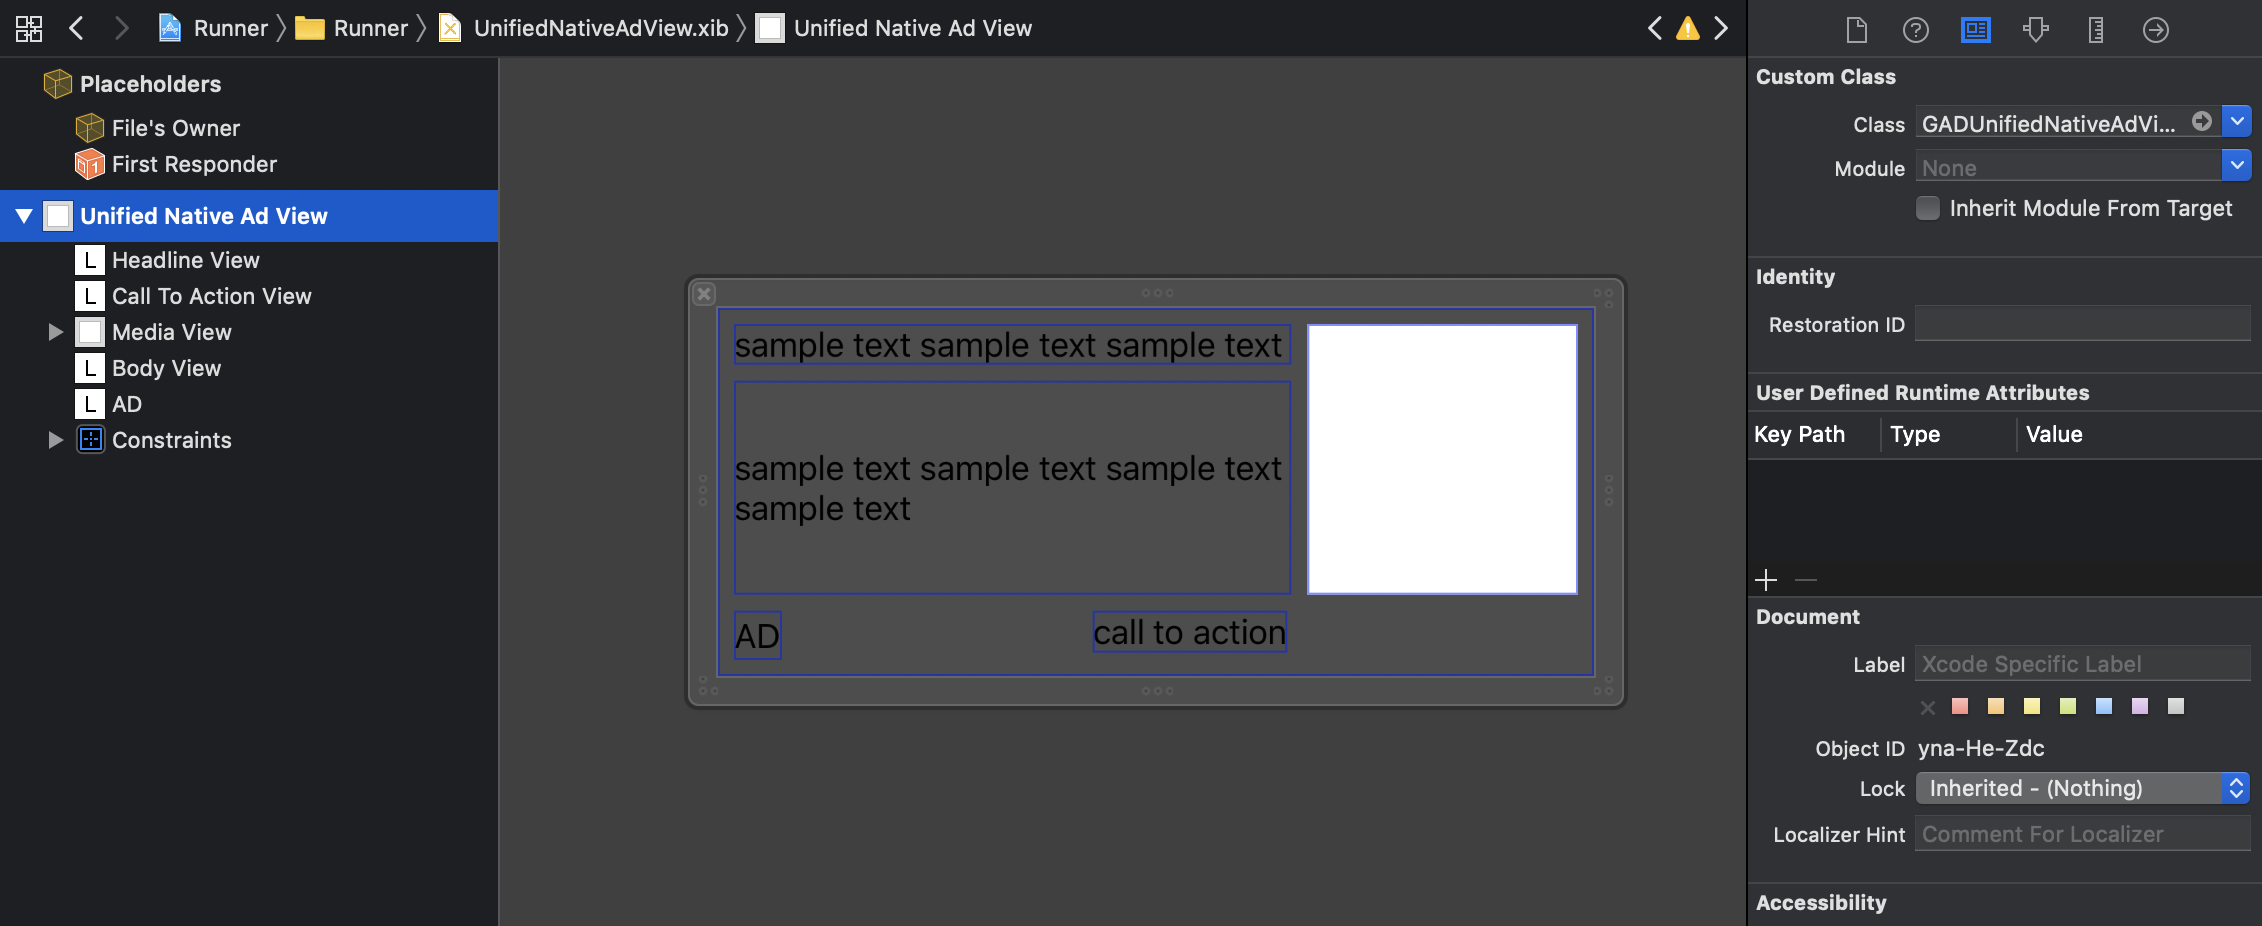
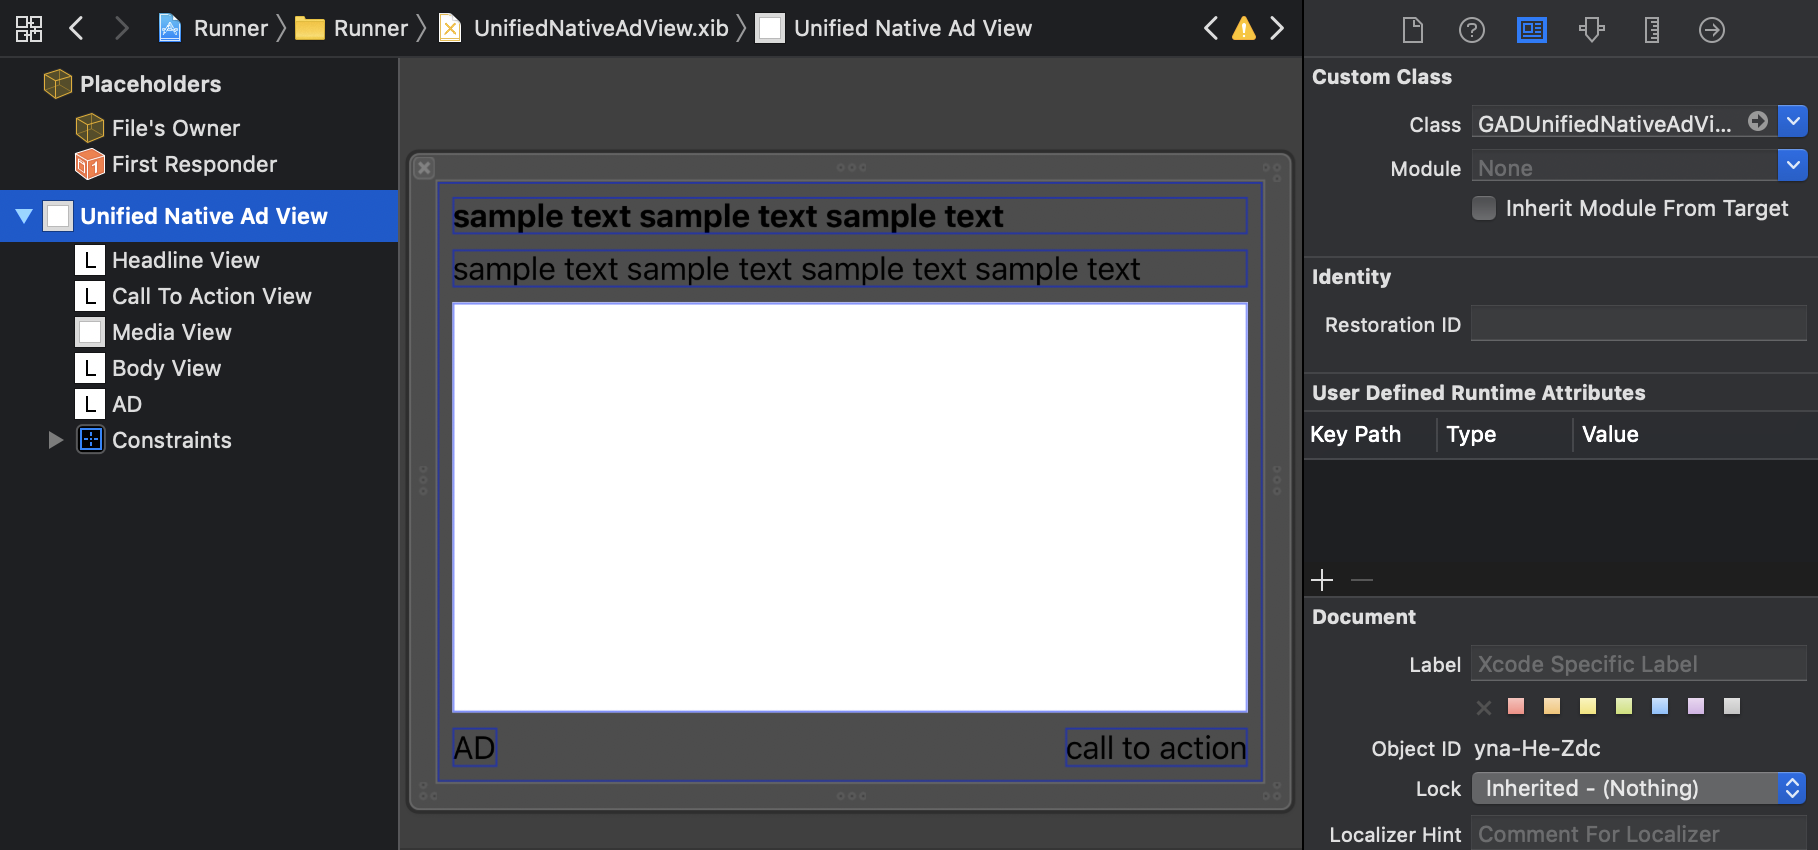
Update README

diff --git a/README.md b/README.md
@@ -3,9 +3,7 @@
 Flutter native ads with PlatformView
 
 ## Getting Started
-### setup
-
-#### Android
+### Android
 - [AndroidManifest changes](https://developers.google.com/admob/android/quick-start#update_your_androidmanifestxml)
 
 AdMob 17 requires the App ID to be included in the `AndroidManifest.xml`. Failure
@@ -20,7 +18,7 @@ to do so will result in a crash on launch of your app.  The line should look lik
 where `[ADMOB_APP_ID]` is your App ID.  You must pass the same value when you 
 initialize the plugin in your Dart code.
 
-#### iOS
+### iOS
 - [Info.plist changes](https://developers.google.com/admob/ios/quick-start#update_your_infoplist)
 
 Admob 7.42.0 requires the App ID to be included in `Info.plist`. Failure to do so will result in a crash on launch of your app. The lines should look like:
@@ -39,20 +37,46 @@ And PlatformView
 <true/>
 ```
 
-### Layout file
+## Layout
 This plugin supported custom layout
 
-#### Android
+### Android
 You can use anything if the parent is a ViewGroup.
 The example uses RelativeLayout.
 
-Use `com.google.android.gms.ads.formats.MediaView` for MediaView.
+Use [`com.google.android.gms.ads.formats.UnifiedNativeAdView`](https://developers.google.com/android/reference/com/google/android/gms/ads/formats/UnifiedNativeAdView) for the parent.
 
-Please give any ID to each view.
+![image](https://raw.githubusercontent.com/sakebook/flutter_native_ads/master/art/android_unified_native_ad_view.png)
 
-![image](https://raw.githubusercontent.com/sakebook/flutter_native_ads/master/art/android_mevia_view.png)
+Use [`com.google.android.gms.ads.formats.MediaView`](https://developers.google.com/android/reference/com/google/android/gms/ads/formats/MediaView) for MediaView.
 
-#### iOS
+![image](https://raw.githubusercontent.com/sakebook/flutter_native_ads/master/art/android_media_view.png)
+
+- xml
+
+```xml
+<?xml version="1.0" encoding="utf-8"?>
+<com.google.android.gms.ads.formats.UnifiedNativeAdView 
+    xmlns:android="http://schemas.android.com/apk/res/android"
+    xmlns:tools="http://schemas.android.com/tools"
+    android:id="@+id/flutter_native_ad_unified_native_ad"
+    ...
+    
+    <!-- ViewGroup -->
+    <RelativeLayout
+        android:layout_width="match_parent"
+        android:layout_height="wrap_content">
+        
+        ...
+
+        <com.google.android.gms.ads.formats.MediaView
+            android:id="@+id/flutter_native_ad_media"
+            ...
+```
+
+[example](https://github.com/sakebook/flutter_native_ads/blob/master/example/android/app/src/main/res/layout/native_ad_layout.xml)
+
+### iOS
 Please set GADUnifiedNativeAdView for the parent.
 
 ![image](https://raw.githubusercontent.com/sakebook/flutter_native_ads/master/art/ios_unified_native_ad_view.png)
@@ -65,7 +89,10 @@ Please set Restoration ID for View that displays attribution
 
 ![image](https://raw.githubusercontent.com/sakebook/flutter_native_ads/master/art/ios_attribution.png)
 
-### Usage
+[example](https://github.com/sakebook/flutter_native_ads/blob/master/example/ios/Runner/UnifiedNativeAdView.xib)
+
+
+## Usage
 
 ```dart
 import 'package:flutter/material.dart';
@@ -103,18 +130,12 @@ class MyApp extends StatelessWidget {
                             "ca-app-pub-3940256099942544/2247696110" // test
                         ..packageName = "sakebook.github.com.native_ads_example"
                         ..layoutName = "native_ad_layout"
-                        ..headlineViewId = "text_heading"
-                        ..bodyViewId = "text_title"
-                        ..callToActionViewId = "text_call_to_action"
-                        ..mediaViewId = "video_thumbnail"
-                        ..attributionViewId = "text_publisher"
-                        ..attributionTextResId = "ad_attribution",
+                        ..attributionText = "AD",
                       iosParam: IOSParam()
                         ..placementId =
                             "ca-app-pub-3940256099942544/3986624511" // test
                         ..packageName = "sakebook.github.com.nativeAdsExample"
                         ..layoutName = "UnifiedNativeAdView"
-                        ..attributionViewId = "attribution_view_id"
                         ..attributionText = "SPONSORED",
                       onAdImpression: () => print("onAdImpression!!!"),
                       onAdClicked: () => print("onAdClicked!!!"),
@@ -141,7 +162,34 @@ class MyApp extends StatelessWidget {
 }
 ```
 
-#### Event callback
+## Mapping Native Ads to Layout
+Need to mapping the view
+
+### Android
+Mapping by view id
+
+|Field|ID|
+|:---:|:---:|
+|Headline|flutter_native_ad_headline|
+|Body|flutter_native_ad_body|
+|MediaView|flutter_native_ad_media|
+|Call To Action|flutter_native_ad_call_to_action|
+|Attribution|flutter_native_ad_attribution|
+
+### iOS
+Mapping by Outlet
+
+![image](https://raw.githubusercontent.com/sakebook/flutter_native_ads/master/art/ios_mapping.png)
+
+## Supported native ads fields
+- Headline
+- Body
+- Media
+- Call To Action
+- Ad Attribution
+
+
+## Event callback
 Receive callbacks for some events by passing to the NativeAdView constructor
 
 - onAdImpression
